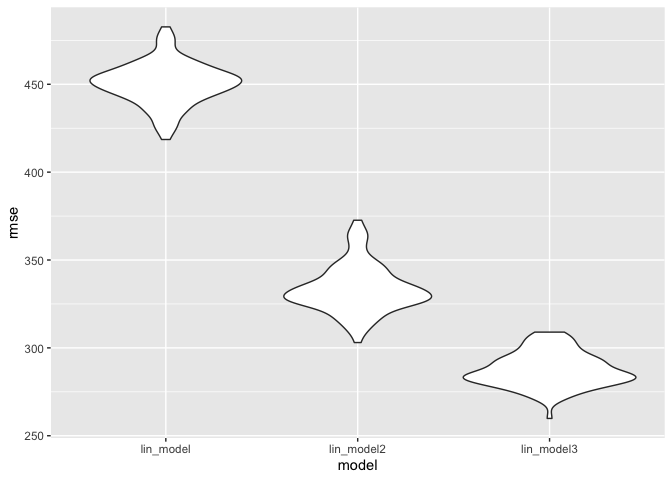
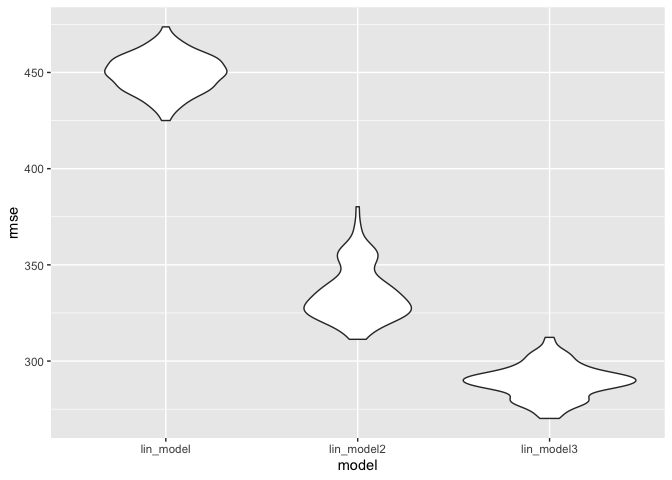
Problem 3 and edits for PROBLEM 2 model

diff --git a/p8105_hw6_gb2685.md b/p8105_hw6_gb2685.md
@@ -67,7 +67,8 @@ birthweight_data %>%
 birthweight_df = 
   birthweight_data %>%
   mutate(
-    babysex = as.factor(babysex) 
+    babysex = as.factor(babysex)
+    
   )
 ```
 
@@ -141,6 +142,9 @@ birthweight_df %>%
 ```
 
 ![](p8105_hw6_gb2685_files/figure-gfm/unnamed-chunk-6-1.png)<!-- -->
+
+Most of the values were centered around the centre except for a few
+values that strayed far from zero.
 
 **Buiding the other two models:**
 
@@ -233,6 +237,11 @@ cv_df %>%
 
 ![](p8105_hw6_gb2685_files/figure-gfm/unnamed-chunk-11-1.png)<!-- -->
 
+Root mean square errors (RMSE) should be lower for the best fit models.
+Here, my model is not a good fit as compared to models 2 and 3, as the
+RMSE is very high. The third model is the best as it has the lowest
+RMSE.
+
 ## Problem 3
 
 ``` r
@@ -258,3 +267,93 @@ weather_df =
     ## date created (size, mb): 2020-12-09 17:30:14 (7.536)
 
     ## file min/max dates: 1869-01-01 / 2020-12-31
+
+**Drawing bootstrap samples**
+
+``` r
+boot_sample = function(df) {
+  sample_frac(df, replace = TRUE)
+}
+
+boot_straps = 
+  data_frame(
+    strap_number = 1:5000,
+    strap_sample = rerun(5000, boot_sample(weather_df))
+  )
+```
+
+    ## Warning: `data_frame()` is deprecated as of tibble 1.1.0.
+    ## Please use `tibble()` instead.
+    ## This warning is displayed once every 8 hours.
+    ## Call `lifecycle::last_warnings()` to see where this warning was generated.
+
+``` r
+bootstrap_results_r_squared = 
+  boot_straps %>% 
+  mutate(
+    models = map(strap_sample, ~lm(tmax ~ tmin, data = .x) ),
+    results = map(models, broom::glance)) %>% 
+  select(-strap_sample, -models) %>% 
+  unnest(results) 
+
+bootstrap_results_r_squared%>%
+  ggplot(aes(x = adj.r.squared)) + geom_density()
+```
+
+![](p8105_hw6_gb2685_files/figure-gfm/unnamed-chunk-14-1.png)<!-- -->
+
+``` r
+bootstrap_results_log_b1_b2 = 
+  boot_straps %>% 
+  mutate(
+    models = map(strap_sample, ~lm(tmax ~ tmin, data = .x) ),
+    results = map(models, broom::tidy)) %>% 
+  select(-strap_sample, -models) %>% 
+  unnest(results) %>%
+  select(term, estimate) %>% 
+  pivot_wider(
+    names_from = term,
+    values_from = estimate
+  )%>%
+  janitor::clean_names() %>%
+  unnest(c(intercept, tmin)) %>%
+  mutate(
+    log_b1_b2 = log(intercept * tmin)
+  )
+```
+
+    ## Warning: Values are not uniquely identified; output will contain list-cols.
+    ## * Use `values_fn = list` to suppress this warning.
+    ## * Use `values_fn = length` to identify where the duplicates arise
+    ## * Use `values_fn = {summary_fun}` to summarise duplicates
+
+``` r
+bootstrap_results_log_b1_b2%>%
+  ggplot(aes(x = log_b1_b2)) + geom_density()
+```
+
+![](p8105_hw6_gb2685_files/figure-gfm/unnamed-chunk-15-1.png)<!-- -->
+
+``` r
+bootstrap_results_r_squared %>%
+  summarize(
+    ci_lower = quantile(adj.r.squared, 0.025), 
+    ci_upper = quantile(adj.r.squared, 0.975))
+```
+
+    ## # A tibble: 1 x 2
+    ##   ci_lower ci_upper
+    ##      <dbl>    <dbl>
+    ## 1    0.893    0.927
+
+``` r
+bootstrap_results_log_b1_b2%>%
+  summarize(
+    ci_lower = quantile(log_b1_b2, 0.025), 
+    ci_upper = quantile(log_b1_b2, 0.975))
+```
+
+    ## # A tibble: 1 x 2
+    ##   ci_lower ci_upper
+    ##      <dbl>    <dbl>
+    ## 1     1.96     2.06
